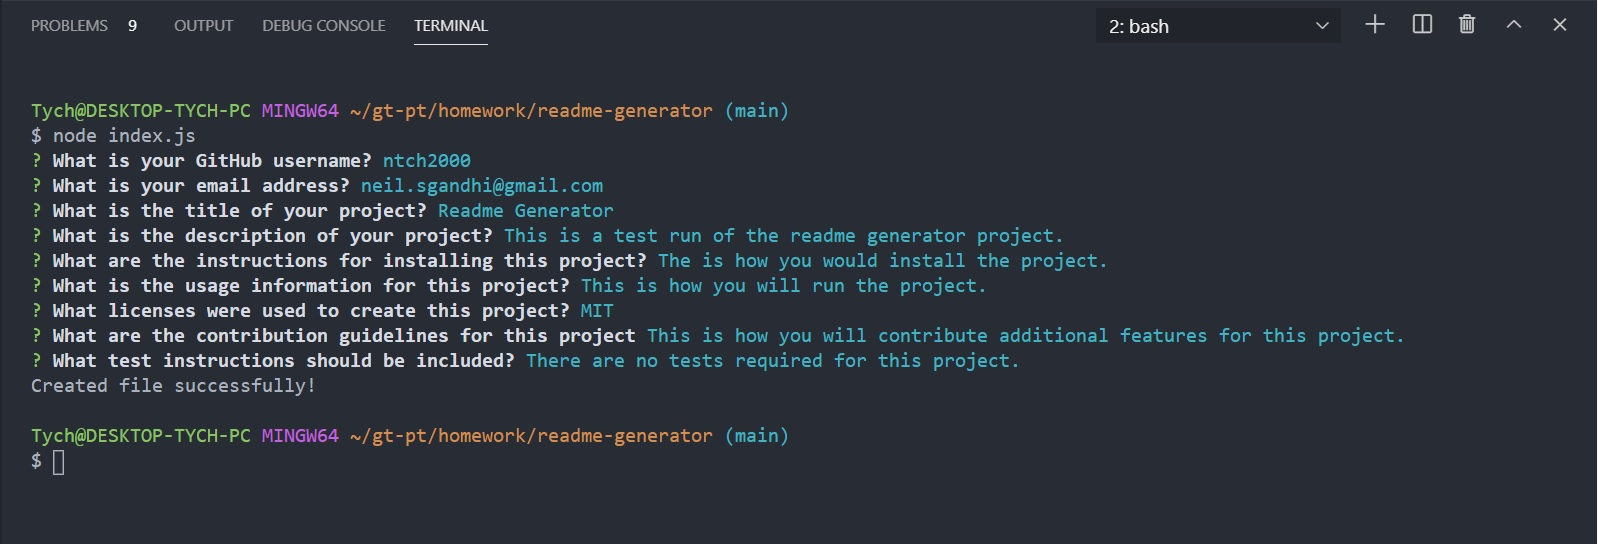
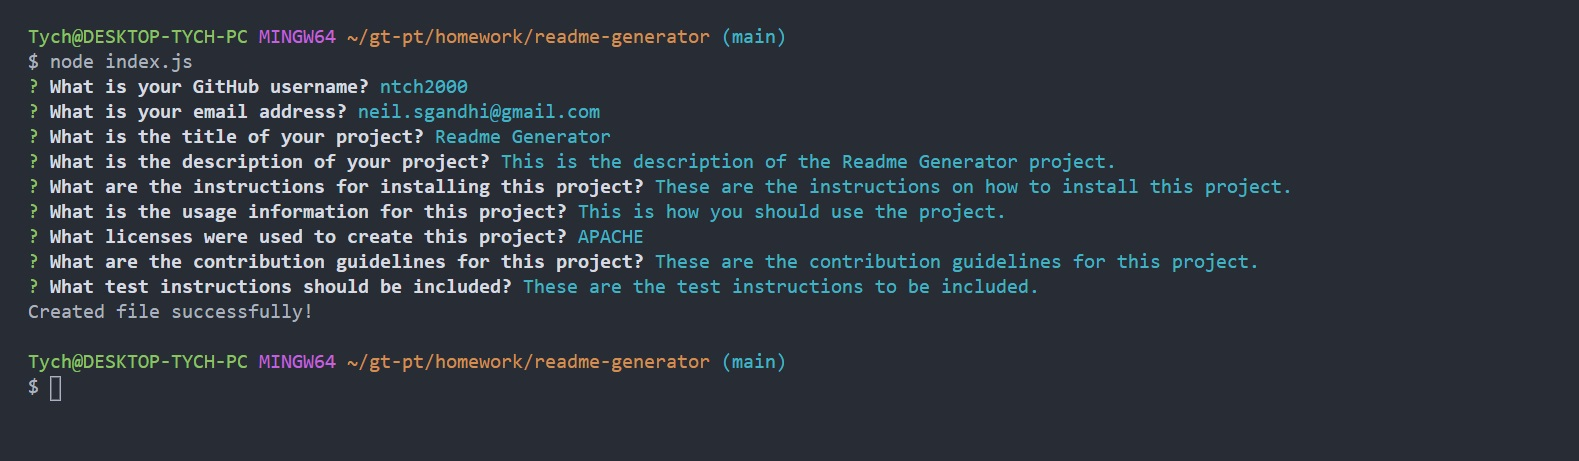
Finalized project readme file as well as included sample generated readme-generated file

diff --git a/README-Generated.md b/README-Generated.md
@@ -1,0 +1,56 @@
+# Readme Generator
+  ---
+  [![License](https://img.shields.io/badge/License-Apache%202.0-blue.svg)](https://opensource.org/licenses/Apache-2.0)
+  
+  ## Description
+  
+
+  This is the description of the Readme Generator project.
+  
+  ## Table of Contents
+  
+  - [Installation](#installation)
+  - [Usage](#usage)
+  - [License](#license)
+  - [Contributing](#contributing)
+  - [Tests](#tests)
+  - [Questions](#questions)
+  
+  ## Installation
+  
+  These are the instructions on how to install this project.
+  
+  ## Usage
+  
+  This is how you should use the project.  
+
+  ## License
+  
+  Copyright (C) 2020 ntch2000
+
+  This program is free software: you can redistribute it and/or modify
+  it under the terms of the GNU General Public License as published by
+  the Free Software Foundation, either version 3 of the License, or
+  (at your option) any later version.
+    
+  This program is distributed in the hope that it will be useful,
+  but WITHOUT ANY WARRANTY; without even the implied warranty of
+  MERCHANTABILITY or FITNESS FOR A PARTICULAR PURPOSE. See the
+  GNU General Public License for more details.
+    
+  You should have received a copy of the GNU General Public License
+  along with this program. If not, see <https://www.gnu.org/licenses/>.
+  
+  ## Contributing
+  
+These are the contribution guidelines for this project.
+
+  ## Tests
+  
+These are the test instructions to be included.
+
+  ## Questions
+  
+  If you have any questions regarding this project, please feel free to check out my GitHub [ntch2000](https://github.com/ntch2000).
+  
+  You can also reach me directly via my email address neil.sgandhi@gmail.com.

diff --git a/README.md b/README.md
@@ -55,6 +55,14 @@ npm install
 
 ## Application Screenshot
 
+![Terminal Prompts](./assets/terminal-prompts.jpg "Terminal Prompts Screenshot")
+
+_Sample screenshot of the prompt questions and the user responses._
+
+![Generated Readme](./assets/generated-readme-image.jpg "Generated README.md file Screenshot")
+
+_Sample screenshot of the README.md file generated with the user inputs_
+
 ## Usage
 
 Once the project files are clones and the dependency files installed from npm, users can run the application from their working directory in the terminal by running the following command.
@@ -64,6 +72,8 @@ node index.js
 ```
 
 This will start the application with prompts the user must answer. The responses to these questions will fill the content of each heading and a README file will be generated at the conclusion of the prompts.
+
+A video of this can be found at the following link [Readme Generator Walkthrough Video](https://drive.google.com/file/d/1GWd3gflwhlwWFDh9HLrnRbPna9A6JiAq/view?usp=sharing).
 
 ## Questions
 
